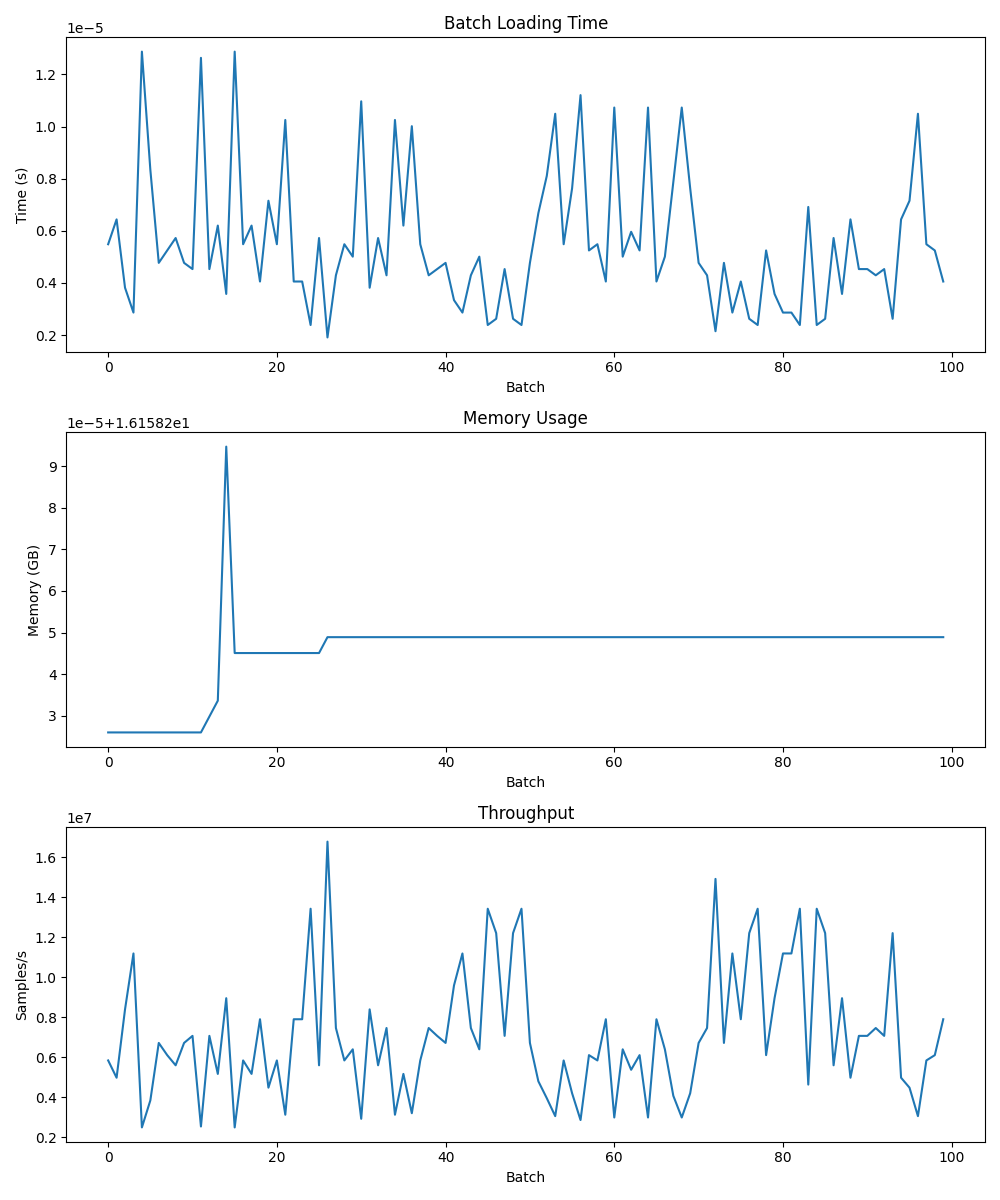
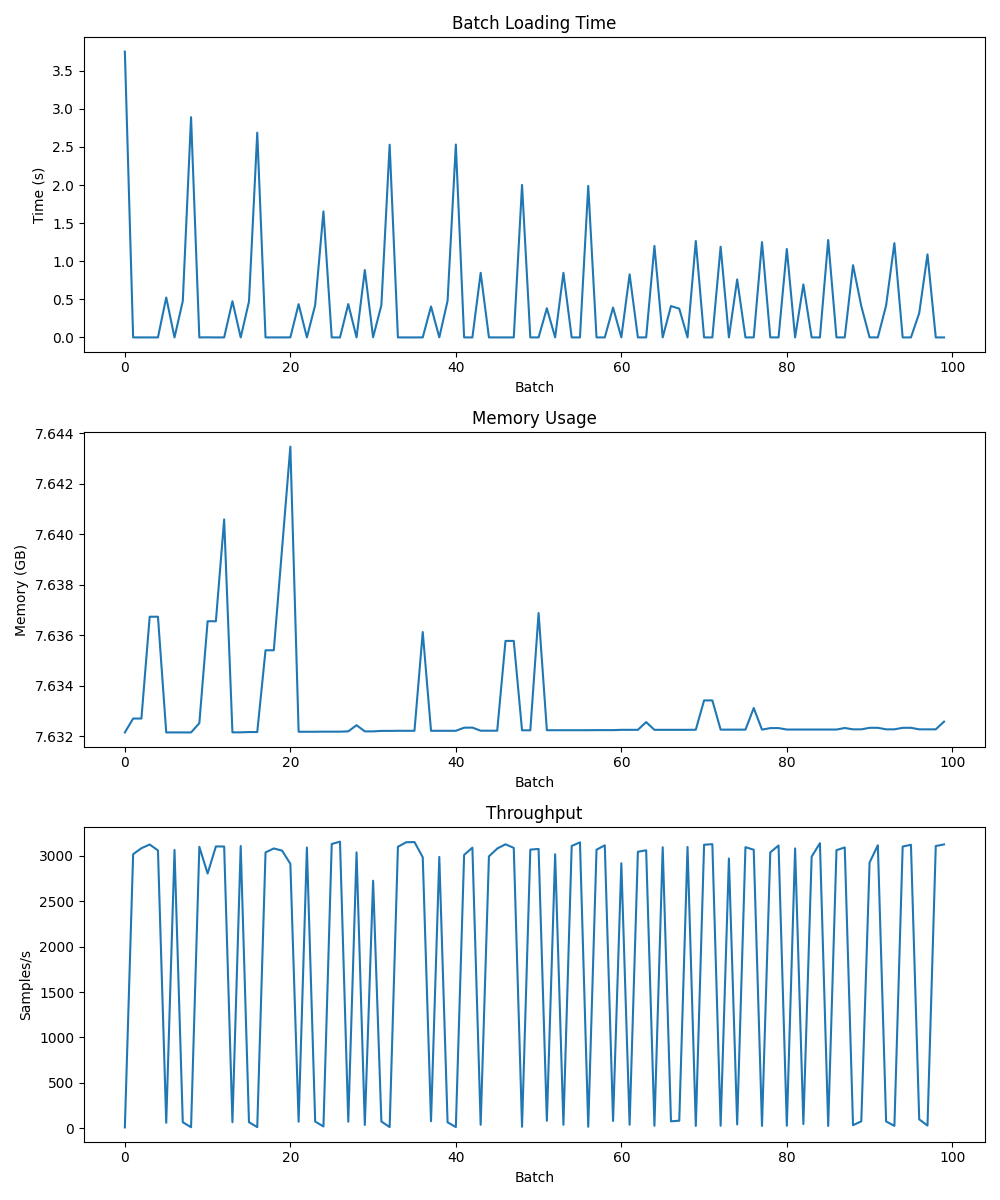
profile dataloader

diff --git a/src/sae/dataloader.py b/src/sae/dataloader.py
@@ -34,7 +34,6 @@ class ActivationDataset(Dataset):
             flatten_activations: Whether to flatten the spatial dimensions (h, w)
         """
         self.data_dir = Path(data_dir)
-        print(self.data_dir)
         self.activation_shape = activation_shape
         self.dtype = dtype
         self.flatten_activations = flatten_activations
@@ -128,9 +127,6 @@ class ActivationDataset(Dataset):
 
             self.indices.extend([(concept, idx) for idx in concept_indices])
 
-        # Shuffle the indices
-        random.shuffle(self.indices)
-
     def _get_memmap_size(self, memmap_path: Path) -> int:
         """Get the number of samples in a memmap file."""
         file_size = memmap_path.stat().st_size
@@ -146,7 +142,7 @@ class ActivationDataset(Dataset):
         activation = self.memmaps[concept][sample_idx]
 
         # Convert to torch tensor and handle dtype
-        activation = torch.from_numpy(activation.copy()).float()
+        activation = torch.from_numpy(activation)
 
         if self.flatten_activations:
             # Flatten the spatial dimensions while keeping the channel dimension
@@ -164,8 +160,10 @@ def create_activation_dataloader(
     dtype: str = "float16",
     seed: int = 42,
     flatten_activations: bool = True,
-    num_workers: int = 4,
+    num_workers: int = 8,
+    prefetch_factor: int = 10,
     shuffle: bool = True,
+    pin_memory: bool = True,
 ) -> DataLoader:
     """
     Create a dataloader for SAE training with tunable concept ratios.
@@ -200,7 +198,8 @@ def create_activation_dataloader(
         batch_size=batch_size,
         shuffle=shuffle,
         num_workers=num_workers,
-        pin_memory=True,
+        pin_memory=pin_memory,
+        prefetch_factor=prefetch_factor,
     )
 
 

diff --git a/src/sae/profile_dataloader.py b/src/sae/profile_dataloader.py
@@ -28,6 +28,7 @@ def profile_dataloader(
     batch_size: int = 32,
     num_batches: int = 100,
     num_workers: int = 4,
+    prefetch_factor: int = 2,
 ) -> Tuple[List[float], List[float], List[float]]:
     """
     Profile the dataloader performance.
@@ -51,6 +52,7 @@ def profile_dataloader(
         data_dir=data_dir,
         batch_size=batch_size,
         num_workers=num_workers,
+        prefetch_factor=prefetch_factor,
         # concept_ratios={"Cats": 1},
     )
 
@@ -64,11 +66,11 @@ def profile_dataloader(
     start_time = time.time()
     total_samples = 0
 
+    batch_start = time.time()
     for i, batch in enumerate(dataloader):
         if i >= num_batches:
             break
 
-        batch_start = time.time()
         batch_size = batch.shape[0]
         total_samples += batch_size
 
@@ -76,10 +78,11 @@ def profile_dataloader(
         batch_time = time.time() - batch_start
         batch_times.append(batch_time)
         memory_usage.append(get_memory_usage())
-        throughput.append(batch_size / batch_time)
+        throughput.append(batch_size / (batch_time + 0.01))
 
         if (i + 1) % 10 == 0:
             print(f"Processed {i + 1} batches")
+        batch_start = time.time()
 
     total_time = time.time() - start_time
     print(f"\nProfiling complete!")
@@ -130,7 +133,11 @@ if __name__ == "__main__":
 
     # Profile the dataloader
     batch_times, memory_usage, throughput = profile_dataloader(
-        data_dir=str(activations_dir), batch_size=32, num_batches=100, num_workers=4
+        data_dir=str(activations_dir),
+        batch_size=32,
+        num_batches=100,
+        num_workers=8,
+        prefetch_factor=10,
     )
 
     # Plot the results
